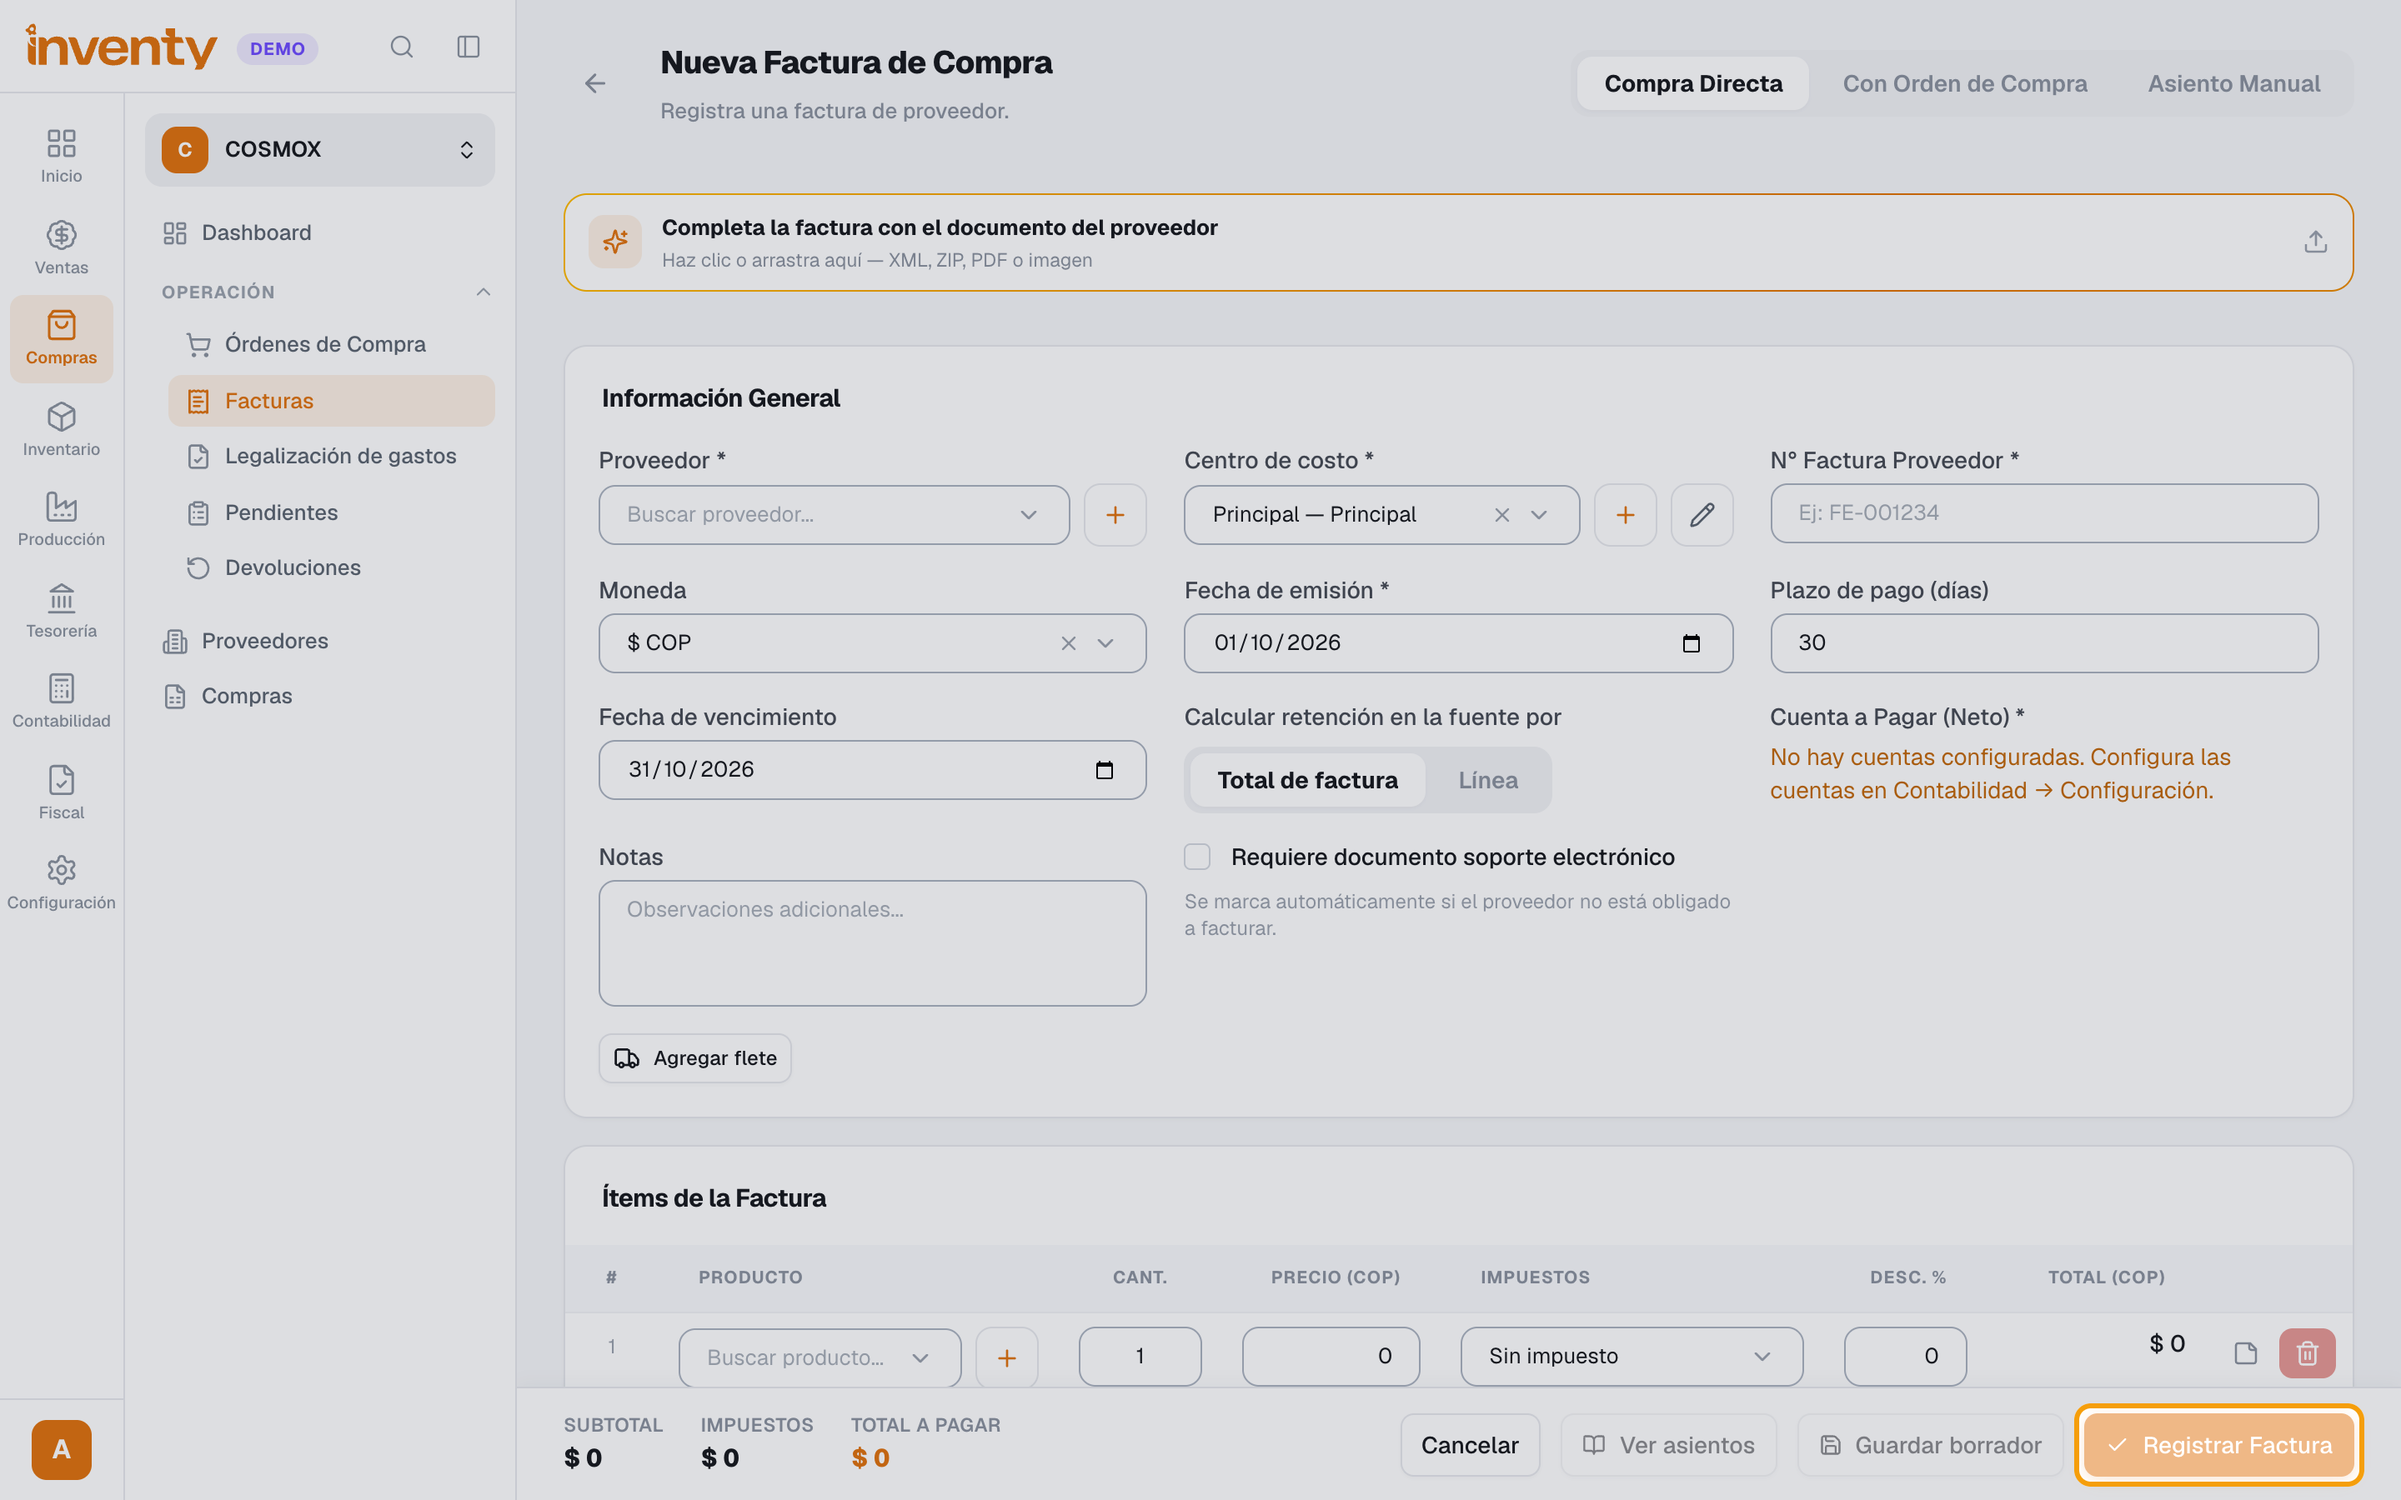
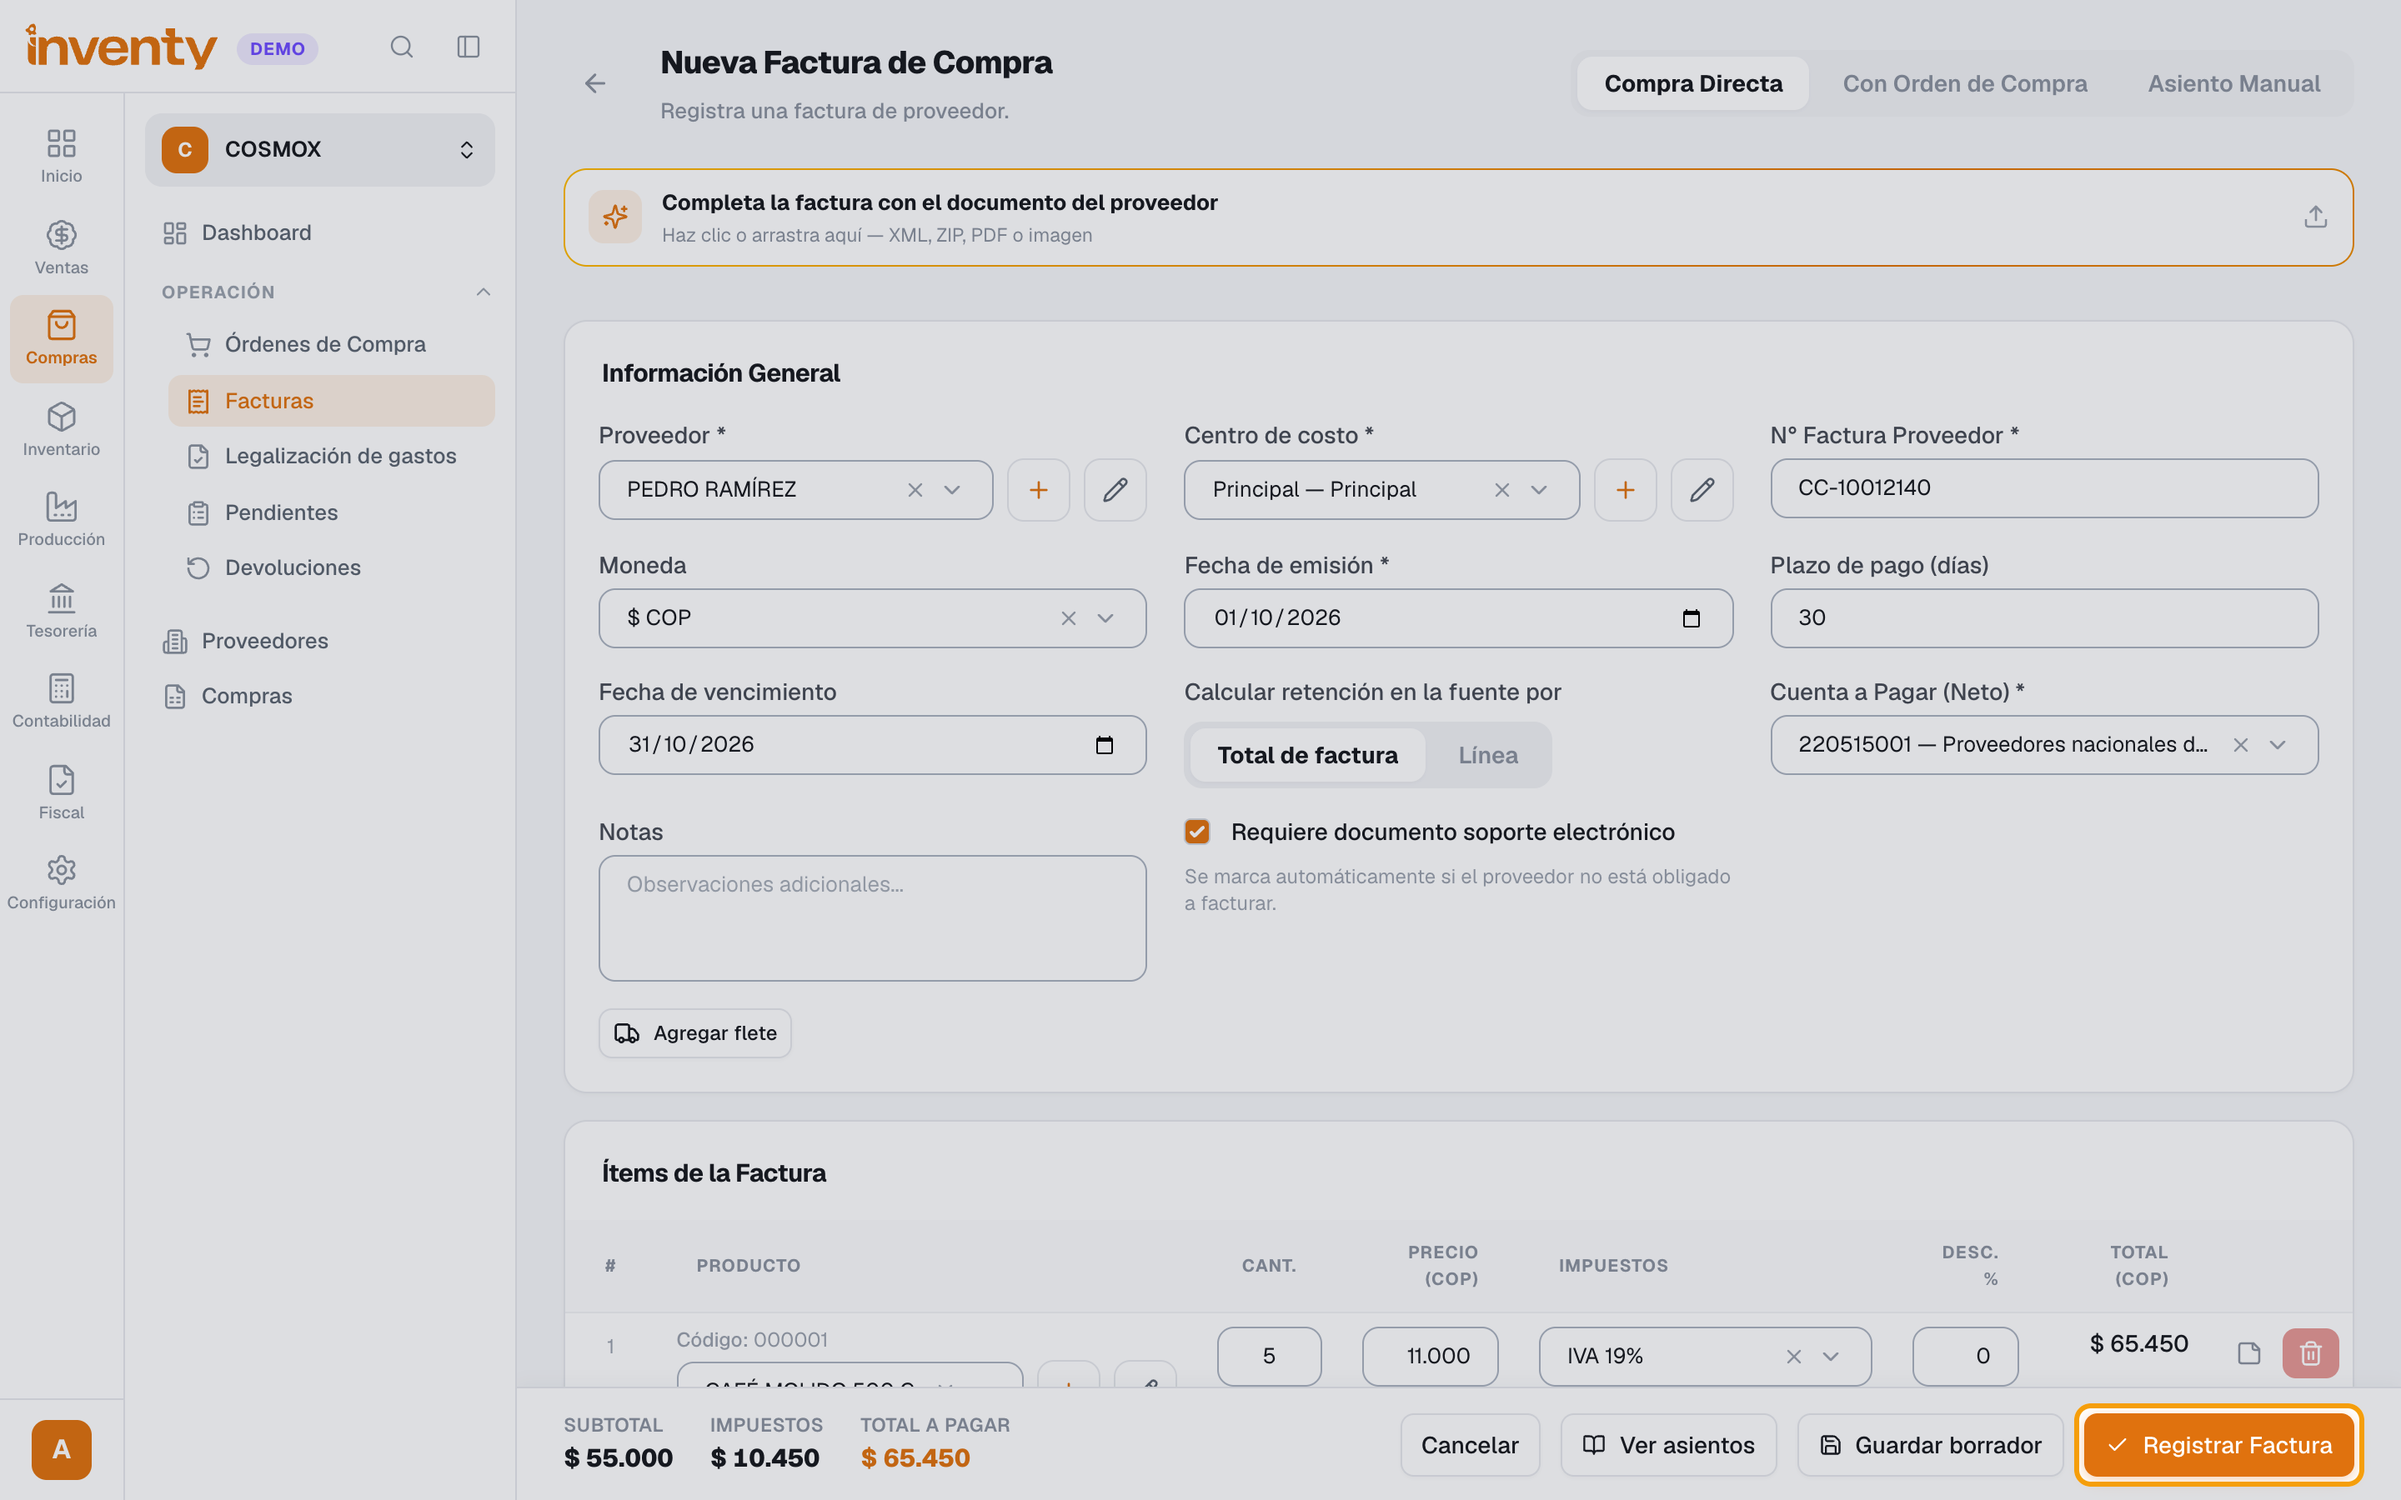
feat: proveedor no obligado a facturar y compra con documento soporte en la demo

diff --git a/docs/facturacion-electronica/documento-soporte.md b/docs/facturacion-electronica/documento-soporte.md
@@ -7,7 +7,7 @@ modulo: facturacion-electronica
 menu: "Compras › Facturas"
 permisos:
   - Crear facturas de compra
-revisado: 2026-09-30
+revisado: 2026-10-01
 search:
   boost: 3
 tags:
@@ -24,15 +24,15 @@ tags:
 
 ## Pasos
 
-**Paso 1.** En <span class="ruta">Compras › Proveedores</span>, edita el proveedor y activa **No obligado a facturar** (solo una vez).
+**Paso 1.** En <span class="ruta">Compras › Proveedores</span>, crea (o edita) el proveedor y marca **No obligado a facturar**. Guarda con **Crear proveedor** (o **Guardar**). Solo se hace una vez.
 
 ![Paso 1: casilla No obligado a facturar](../assets/capturas/facturacion-electronica/documento-soporte/paso-1.png)
 
-**Paso 2.** Registra su factura en <span class="ruta">Compras › Facturas</span> › **Nueva Factura**. La casilla **Requiere documento soporte electrónico** se marca sola.
+**Paso 2.** Ve a <span class="ruta">Compras › Facturas</span> › **Nueva Factura** y elige el proveedor. La casilla **Requiere documento soporte electrónico** se marca sola. En **N° Factura Proveedor** escribe el número de su cuenta de cobro.
 
 ![Paso 2: casilla Requiere documento soporte electrónico](../assets/capturas/facturacion-electronica/documento-soporte/paso-2.png)
 
-**Paso 3.** Haz clic en **Registrar Factura** y confirma.
+**Paso 3.** Agrega los productos o servicios, haz clic en **Registrar Factura** y confirma con **Validar factura**.
 
 ![Paso 3: botón Registrar Factura](../assets/capturas/facturacion-electronica/documento-soporte/paso-3.png)
 
@@ -46,7 +46,7 @@ tags:
 
 | Problema | Solución |
 |---|---|
-| No aparece **Emitir documento soporte** | La factura debe estar validada, marcada como *Requiere documento soporte*, sin documento previo y sin devoluciones. |
+| No aparece **Emitir documento soporte** | Tu empresa debe tener la facturación electrónica habilitada. Además, la factura debe estar validada, marcada como *Requiere documento soporte*, sin documento previo y sin devoluciones. |
 | *La factura no requiere documento soporte electrónico: el proveedor está obligado a facturar.* | Marca al proveedor como **No obligado a facturar** si corresponde. |
 | *La factura ya tiene un documento soporte electrónico activo.* | Ya se emitió: búscalo en **Fiscal › Documentos**. |
 | *No hay una resolución activa disponible para este tipo de documento.* | [Registra la resolución](resoluciones.md) de documento soporte. |

diff --git a/gestion/capturas-reporte.md b/gestion/capturas-reporte.md
@@ -1,5 +1,5 @@
 # Reporte de capturas
 
-> Generado por `npm run capturas` el 1/10/2026, 4:39:30 p. m.. Ambiente: https://erp.cosmox.tech
+> Generado por `npm run capturas` el 1/10/2026, 4:41:13 p. m.. Ambiente: https://erp.cosmox.tech
 
-**1** capturas tomadas · **0** fallas · **54** imágenes siguen pendientes.
+**2** capturas tomadas · **0** fallas · **53** imágenes siguen pendientes.
